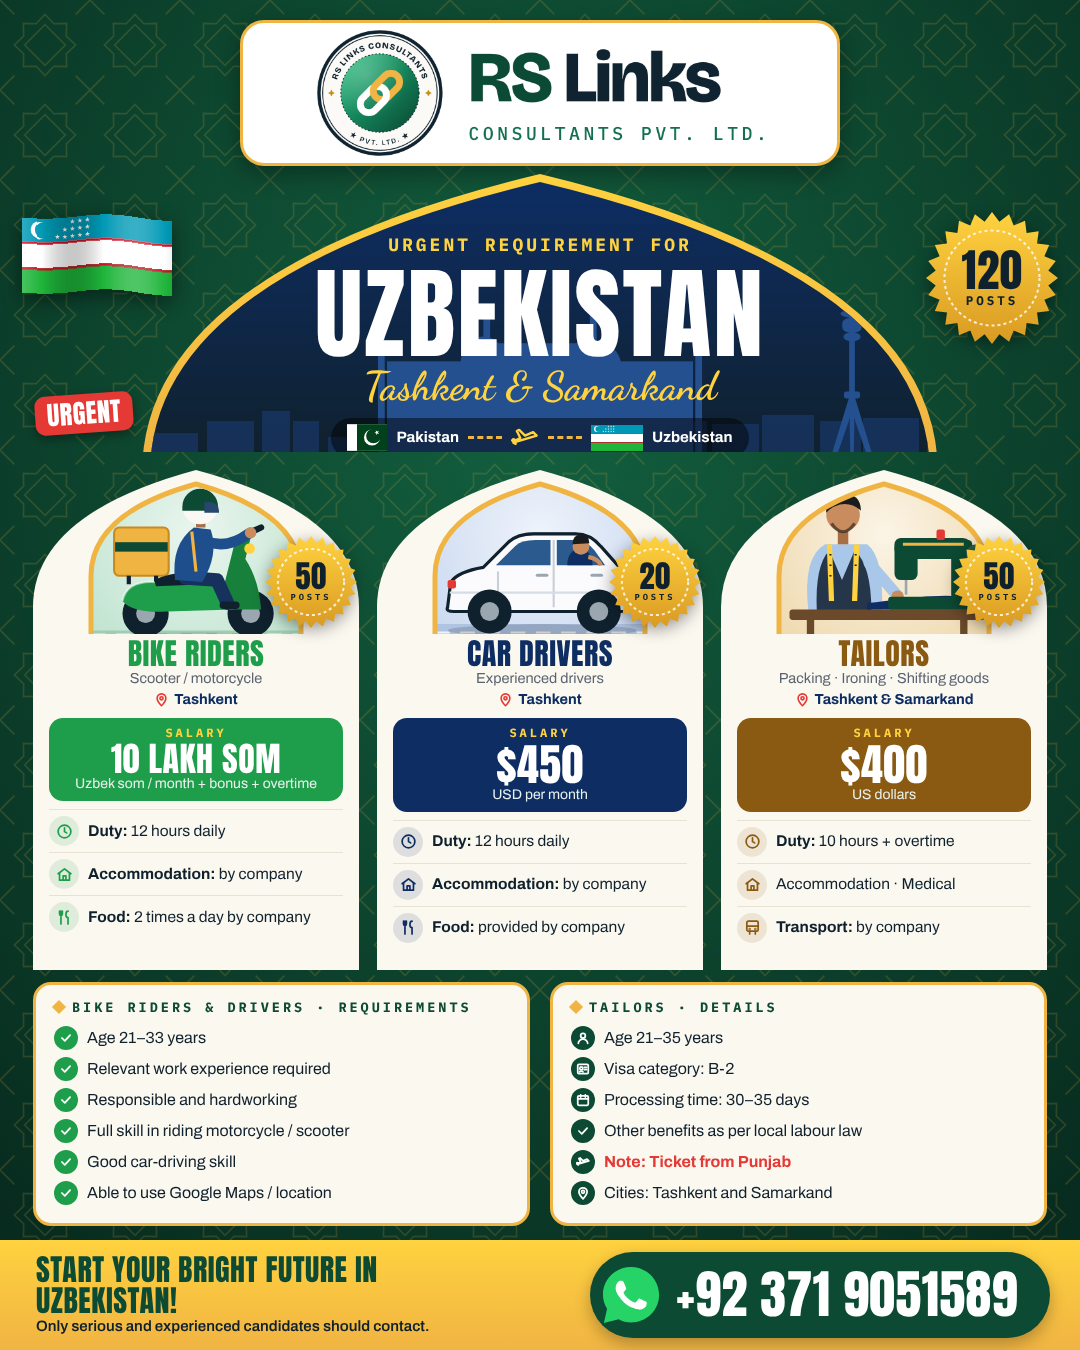
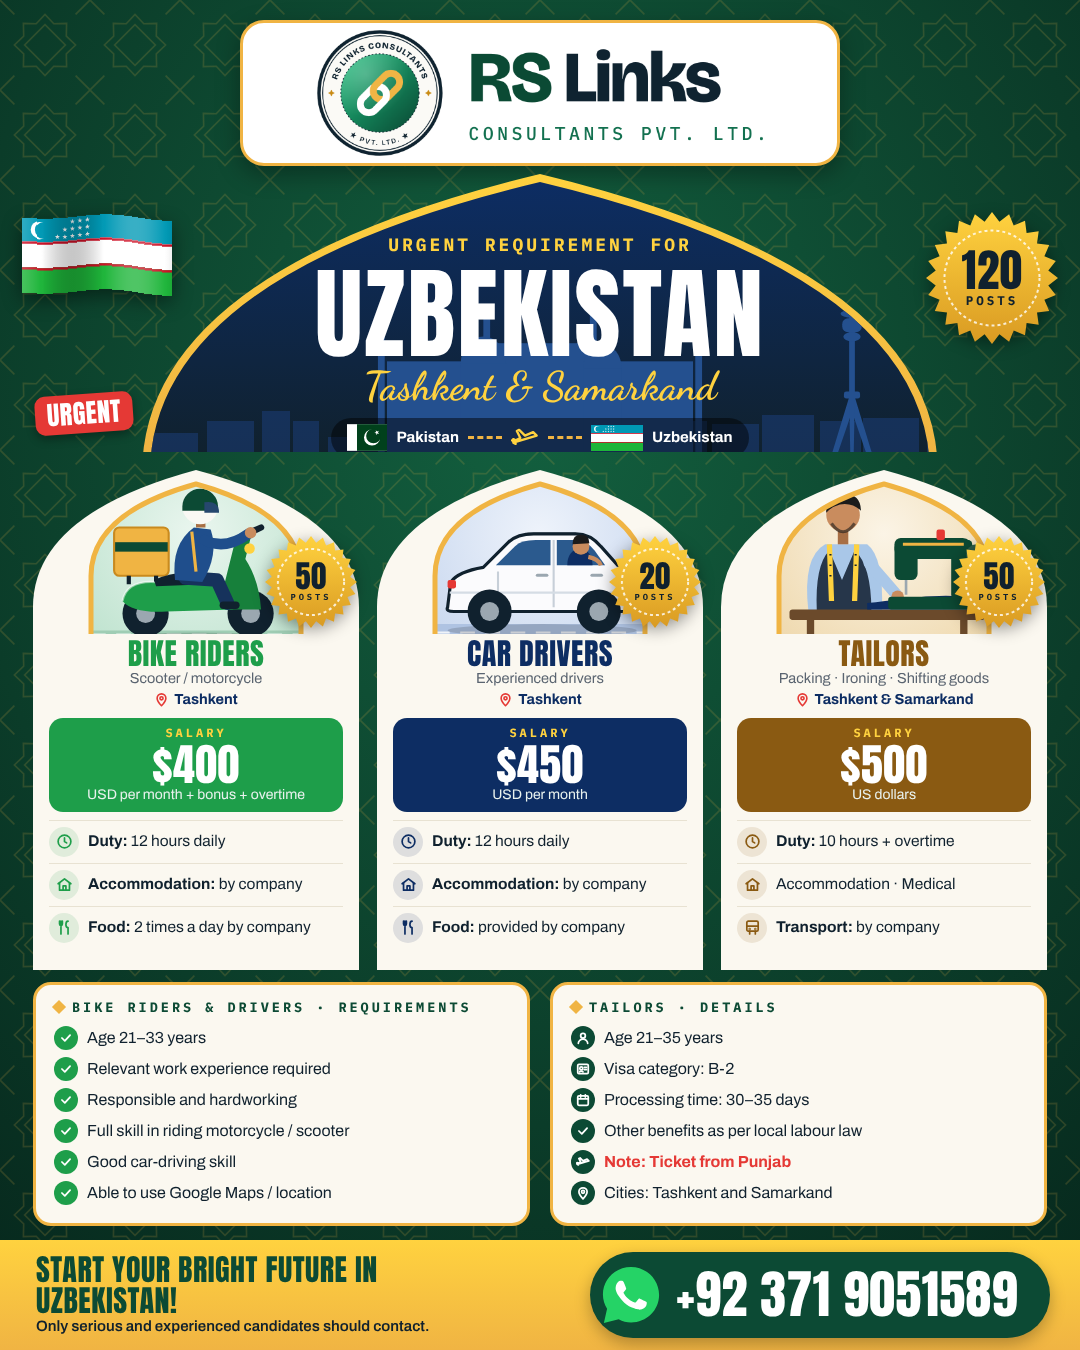
Correct Uzbekistan salaries: riders 400 USD, drivers 450 USD, tailors 500 USD
Claude-Session: https://claude.ai/code/session_01YJ5ofgU8QCiWTsYR9pvXG4

Changed region(s): [[0.0306, 0.5289, 0.3361, 0.7156], [0.7944, 0.56, 0.825, 0.5911]]

diff --git a/src/data/uzbekistan_jobs.py b/src/data/uzbekistan_jobs.py
@@ -1,5 +1,6 @@
 """Demand 2026-10-06 (split): Uzbekistan riders, car drivers, tailors (factory: packing, ironing, shifting goods).
 User instruction 2026-10-06: title this job "Tailors", not "Hosiery Workers".
+User correction 2026-10-06: salaries are riders 400 USD, car drivers 450 USD, tailors 500 USD.
 Facts: demands/2026-10-06-uzbekistan-combined/facts.md (sections A and B)."""
 from common import C
 
@@ -21,8 +22,8 @@ DATA = {
             {"art": "rider", "color": C["emerald2"], "title": "Bike Riders", "title_en_px": 30,
              "roles": "Scooter / motorcycle",
              "location": "Tashkent", "posts": ("50", "POSTS"),
-             "salary": {"label": "SALARY", "value": "10 LAKH SOM", "size": 34,
-                        "sub": "Uzbek som / month + bonus + overtime"},
+             "salary": {"label": "SALARY", "value": "$400", "size": 44,
+                        "sub": "USD per month + bonus + overtime"},
              "rows": [("clock", f"{B('Duty:')} 12 hours daily"),
                       ("home", f"{B('Accommodation:')} by company"),
                       ("food", f"{B('Food:')} 2 times a day by company")]},
@@ -36,7 +37,7 @@ DATA = {
             {"art": "tailor", "color": "#8A5A12", "title": "Tailors", "title_en_px": 30,
              "roles": "Packing · Ironing · Shifting goods",
              "location": "Tashkent &amp; Samarkand", "posts": ("50", "POSTS"),
-             "salary": {"label": "SALARY", "value": "$400", "size": 44, "sub": "US dollars"},
+             "salary": {"label": "SALARY", "value": "$500", "size": 44, "sub": "US dollars"},
              "rows": [("clock", f"{B('Duty:')} 10 hours + overtime"),
                       ("home", "Accommodation · Medical"),
                       ("bus", f"{B('Transport:')} by company")]},
@@ -69,8 +70,8 @@ DATA = {
             {"art": "rider", "color": C["emerald2"], "title": "بائیک رائیڈرز",
              "roles": "اسکوٹر / موٹر سائیکل",
              "location": "تاشقند", "posts": ("50", "آسامیاں"),
-             "salary": {"label": "تنخواہ", "value": "10 لاکھ", "size": 36, "rtl": True,
-                        "sub": "ازبک سوم ماہانہ + بونس + اوور ٹائم"},
+             "salary": {"label": "تنخواہ", "value": "400 USD", "size": 40,
+                        "sub": "ماہانہ + بونس + اوور ٹائم"},
              "rows": [("clock", f"{B('ڈیوٹی:')} {N(12)} گھنٹے روزانہ"),
                       ("home", f"{B('رہائش:')} کمپنی کی طرف سے"),
                       ("food", f"{B('کھانا:')} دن میں {N(2)} مرتبہ (کمپنی)")]},
@@ -84,7 +85,7 @@ DATA = {
             {"art": "tailor", "color": "#8A5A12", "title": "ٹیلرز",
              "roles": "پیکنگ، استری کرنا، سامان شفٹ کرنا",
              "location": "تاشقند اور ثمرقند", "posts": ("50", "آسامیاں"),
-             "salary": {"label": "تنخواہ", "value": "400", "size": 40, "sub": "ڈالر"},
+             "salary": {"label": "تنخواہ", "value": "500 USD", "size": 40, "sub": "ڈالر"},
              "rows": [("clock", f"{B('ڈیوٹی:')} {N(10)} گھنٹے + اوور ٹائم"),
                       ("home", "رہائش • میڈیکل"),
                       ("bus", f"{B('ٹرانسپورٹ:')} بذمہ کمپنی")]},

diff --git a/demands/2026-10-06-uzbekistan-combined/facts.md b/demands/2026-10-06-uzbekistan-combined/facts.md
@@ -59,3 +59,8 @@ Source: three reference ads (screenshots in this folder). Content only; no layou
   the same 12 hours. Confirm the amount (10 lakh? 1 crore?).
 - "Ticket from Punjab": does this mean the flight departs from Punjab (e.g. Lahore), or the
   candidate pays for the ticket?
+
+## User corrections (2026-10-06)
+- Uzbekistan job 3 is titled **Tailors** (not hosiery workers); Kyrgyzstan is a separate tailors demand.
+- Uzbekistan salaries: **bike riders 400 USD**, **car drivers 450 USD**, **tailors 500 USD**.
+  (Replaces "10 lakh Uzbek som" for riders and "$400" for job 3.)
